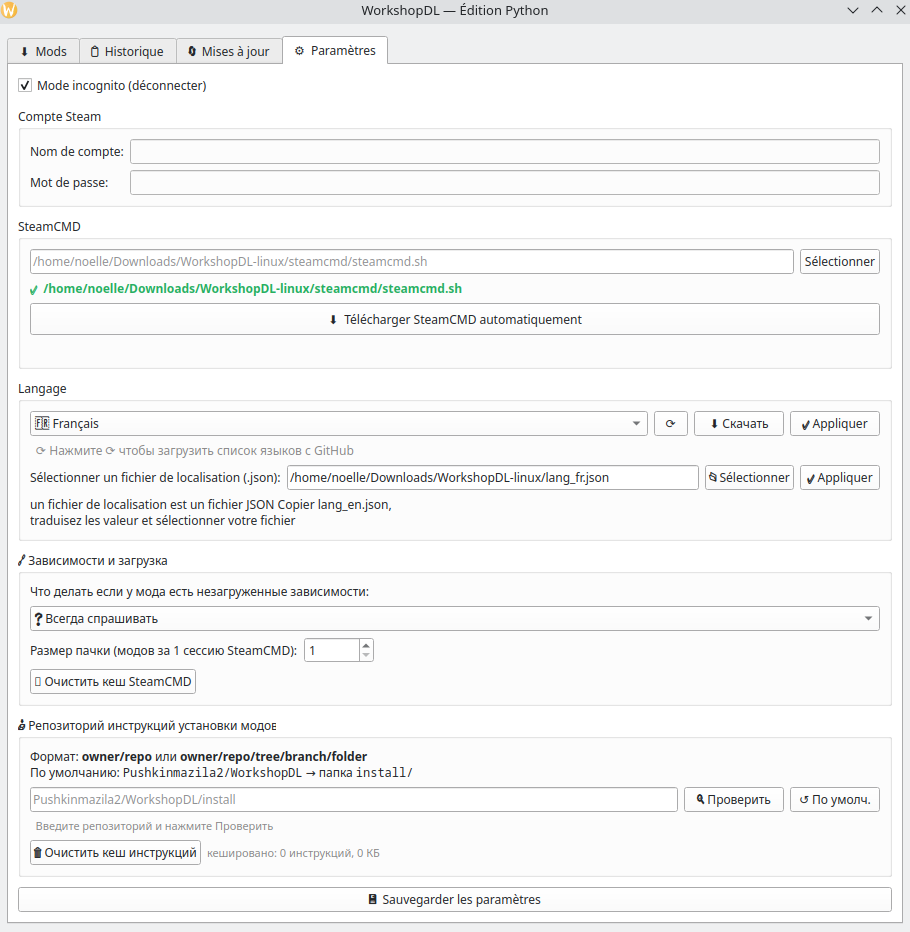
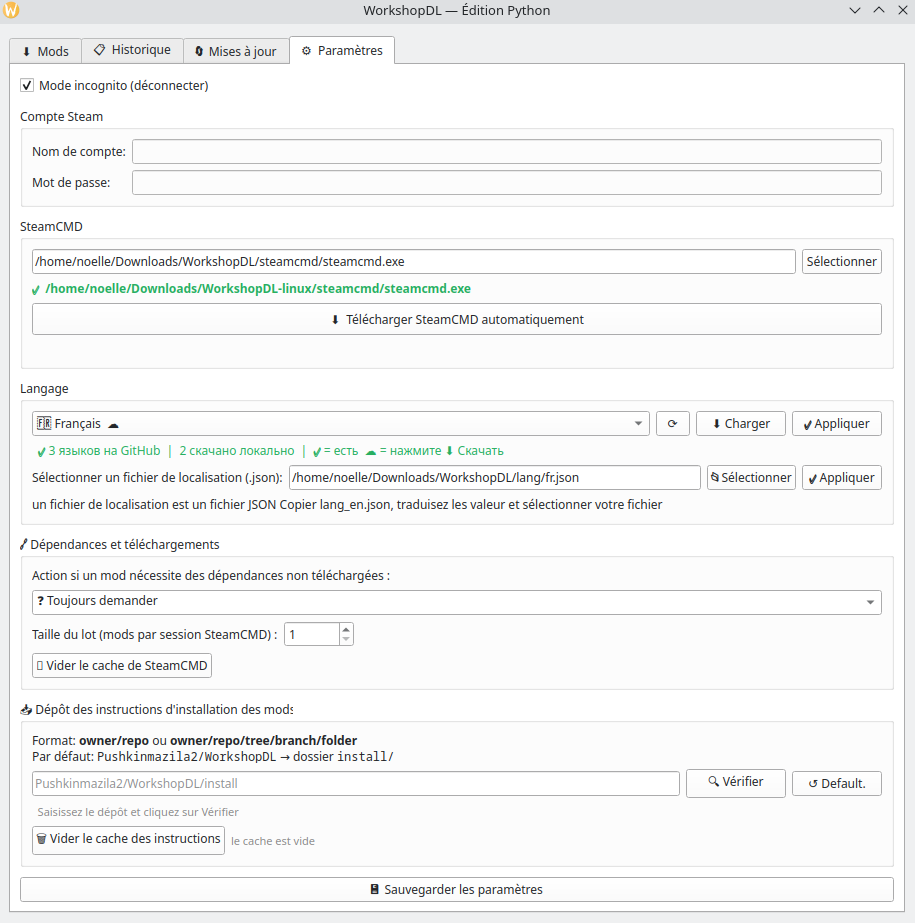
Unfinished Progress

Changed region(s): [[0.0, 0.0, 1.0, 1.0], [0.4923, 0.0, 0.6154, 0.0303], [0.9846, 0.0, 1.0, 0.0303]]

diff --git a/workshopdl.py b/workshopdl.py
@@ -3768,8 +3768,8 @@ class MainWindow(QMainWindow):
         self.cmb_update_paths.setSizePolicy(QSizePolicy.Expanding, QSizePolicy.Fixed)
         self.cmb_update_paths.lineEdit().setPlaceholderText(t("upd_path_placeholder"))
         rp.addWidget(self.cmb_update_paths)
-        for icon, tip, slot in [("📁", "Обзор папки",        self._browse_update_path),
-                                 ("✖",  "Удалить этот путь", self._delete_update_path)]:
+        for icon, tip, slot in [(t("btn_browse"), t("btn_browse_tip"),        self._browse_update_path),
+                                 (t("btn_delete_path"),  t("btn_delete_path_tip"), self._delete_update_path)]:
             b = QPushButton(icon); b.setFixedWidth(34); b.setToolTip(tip)
             b.clicked.connect(slot); rp.addWidget(b)
         gp.addLayout(rp); lay.addWidget(grp_path)
@@ -3920,14 +3920,14 @@ class MainWindow(QMainWindow):
         row_cmb = QHBoxLayout()
         self.cmb_lang = QComboBox()
         self.cmb_lang.setSizePolicy(QSizePolicy.Expanding, QSizePolicy.Fixed)
-        self.cmb_lang.setToolTip("Языки с GitHub — нажми ⟳ чтобы обновить список")
+        self.cmb_lang.setToolTip(t("settings_language_set_tip"))
         row_cmb.addWidget(self.cmb_lang)
-        self.btn_lang_refresh = QPushButton("⟳")
+        self.btn_lang_refresh = QPushButton(t("settings_language_refresh"))
         self.btn_lang_refresh.setFixedWidth(34)
-        self.btn_lang_refresh.setToolTip("Обновить список языков с GitHub")
+        self.btn_lang_refresh.setToolTip(t("settings_language_refresh_tip"))
         self.btn_lang_refresh.clicked.connect(self._fetch_lang_list)
         row_cmb.addWidget(self.btn_lang_refresh)
-        self.btn_lang_dl = QPushButton("⬇ Скачать")
+        self.btn_lang_dl = QPushButton(t("settings_language_download"))
         self.btn_lang_dl.setFixedWidth(90)
         self.btn_lang_dl.clicked.connect(self._download_selected_lang)
         row_cmb.addWidget(self.btn_lang_dl)
@@ -3938,7 +3938,7 @@ class MainWindow(QMainWindow):
         gl2.addLayout(row_cmb)
 
         # Статус
-        self.lbl_lang_status = QLabel("  ⟳ Нажмите ⟳ чтобы загрузить список языков с GitHub")
+        self.lbl_lang_status = QLabel(t("settings_language_download_label"))
         self.lbl_lang_status.setStyleSheet("color: #888;")
         gl2.addWidget(self.lbl_lang_status)
 
@@ -3963,40 +3963,33 @@ class MainWindow(QMainWindow):
         btn_save.clicked.connect(self._save_settings)
 
         # ── Зависимости и загрузка ────────────────────────────────────────────
-        grp_deps = QGroupBox("🔗 Зависимости и загрузка")
+        grp_deps = QGroupBox(t("settings_dependency_group"))
         gd = QVBoxLayout(grp_deps)
 
         # Поведение зависимостей
-        gd.addWidget(QLabel("Что делать если у мода есть незагруженные зависимости:"))
+        gd.addWidget(QLabel(t("settings_dependency_label")))
         self.cmb_deps_behavior = QComboBox()
-        self.cmb_deps_behavior.addItem("❓ Всегда спрашивать",       userData="ask")
-        self.cmb_deps_behavior.addItem("⬇ Скачивать автоматически",  userData="auto")
-        self.cmb_deps_behavior.addItem("🚫 Всегда пропускать",       userData="skip")
+        self.cmb_deps_behavior.addItem(t("settings_dependency_ask"),       userData="ask")
+        self.cmb_deps_behavior.addItem(t("settings_dependency_auto"),  userData="auto")
+        self.cmb_deps_behavior.addItem(t("settings_dependency_skip"),       userData="skip")
         gd.addWidget(self.cmb_deps_behavior)
 
         # Размер пачки
         row_batch = QHBoxLayout()
-        row_batch.addWidget(QLabel("Размер пачки (модов за 1 сессию SteamCMD):"))
+        row_batch.addWidget(QLabel(t("settings_download_batch_label")))
         self.spn_batch = QSpinBox()
         self.spn_batch.setRange(1, 50)
         self.spn_batch.setValue(1)
         self.spn_batch.setFixedWidth(70)
-        self.spn_batch.setToolTip(
-            "1 = один мод за раз (безопаснее, подробный лог)\n"
-            "5–10 = меньше переподключений, быстрее при большом списке\n"
-            "Не влияет на скорость интернета — только на число сессий SteamCMD"
-        )
+        self.spn_batch.setToolTip(t("settings_download_batch_tip"))
         row_batch.addWidget(self.spn_batch)
         row_batch.addStretch()
         gd.addLayout(row_batch)
 
         # Очистка кеша
         row_cache = QHBoxLayout()
-        self.btn_clear_cache = QPushButton("🧹 Очистить кеш SteamCMD")
-        self.btn_clear_cache.setToolTip(
-            "Удаляет steamcmd/userdata/ и steamcmd/steamapps/\n"
-            "Помогает если моды перестали скачиваться без причины"
-        )
+        self.btn_clear_cache = QPushButton(t("settings_download_cache_clear"))
+        self.btn_clear_cache.setToolTip(t("settings_download_cache_clear_tip"))
         self.btn_clear_cache.clicked.connect(self._clear_steamcmd_cache)
         row_cache.addWidget(self.btn_clear_cache)
         self.lbl_cache_status = QLabel("")
@@ -4007,44 +4000,32 @@ class MainWindow(QMainWindow):
         lay.addWidget(grp_deps)
 
         # ── Репозиторий инструкций установки ─────────────────────────────────
-        grp_inst = QGroupBox("📥 Репозиторий инструкций установки модов")
+        grp_inst = QGroupBox(t("settings_install_group"))
         gi = QVBoxLayout(grp_inst)
-        gi.addWidget(QLabel(
-            "Формат: <b>owner/repo</b> или <b>owner/repo/tree/branch/folder</b><br>"
-            f"По умолчанию: <code>{INSTALL_REPO_DEFAULT}</code> → папка <code>{INSTALL_PATH_DEFAULT}/</code>"
-        ))
+        gi.addWidget(QLabel(t("settings_install_label").format(repo=INSTALL_REPO_DEFAULT, path=INSTALL_PATH_DEFAULT)))
         row_repo = QHBoxLayout()
         self.inp_install_repo = QLineEdit()
         self.inp_install_repo.setPlaceholderText(
             f"{INSTALL_REPO_DEFAULT}/{INSTALL_PATH_DEFAULT}"
         )
-        self.inp_install_repo.setToolTip(
-            "Репозиторий GitHub с JSON-инструкциями установки.\n"
-            "Файлы должны быть: <папка>/<game_id>.json\n"
-            "Примеры:\n"
-            "  Pushkinmazila2/WorkshopDL\n"
-            "  MyOrg/MyRepo/tree/main/game-installers"
-        )
+        self.inp_install_repo.setToolTip(t("settings_install_repo_tip"))
         row_repo.addWidget(self.inp_install_repo)
-        self.btn_repo_test = QPushButton("🔍 Проверить")
+        self.btn_repo_test = QPushButton(t("settings_install_repo_check"))
         self.btn_repo_test.setFixedWidth(100)
         self.btn_repo_test.clicked.connect(self._test_install_repo)
         row_repo.addWidget(self.btn_repo_test)
-        btn_repo_reset = QPushButton("↺ По умолч.")
+        btn_repo_reset = QPushButton(t("settings_install_repo_reset"))
         btn_repo_reset.setFixedWidth(90)
         btn_repo_reset.clicked.connect(lambda: self.inp_install_repo.clear())
         row_repo.addWidget(btn_repo_reset)
         gi.addLayout(row_repo)
-        self.lbl_repo_status = QLabel("  Введите репозиторий и нажмите Проверить")
+        self.lbl_repo_status = QLabel(t("settings_install_repo_label"))
         self.lbl_repo_status.setStyleSheet("color: #888; font-size: 11px;")
         gi.addWidget(self.lbl_repo_status)
 
         row_cache2 = QHBoxLayout()
-        self.btn_clear_install_cache = QPushButton("🗑 Очистить кеш инструкций")
-        self.btn_clear_install_cache.setToolTip(
-            "Удаляет локально кешированные .json инструкции.\n"
-            "При следующей установке они будут заново скачаны с GitHub."
-        )
+        self.btn_clear_install_cache = QPushButton(t("settings_install_cache_clear"))
+        self.btn_clear_install_cache.setToolTip(t("settings_install_cache_clear_tip"))
         self.btn_clear_install_cache.clicked.connect(self._clear_install_cache)
         row_cache2.addWidget(self.btn_clear_install_cache)
         self.lbl_install_cache_info = QLabel("")
@@ -4146,7 +4127,7 @@ class MainWindow(QMainWindow):
         tmp_cfg["WorkshopDL"] = {"InstallRepo": repo_val} if repo_val else {}
         raw_url, api_url = _install_repo_url(tmp_cfg if repo_val else None)
 
-        self.lbl_repo_status.setText("  ⏳ Проверка...")
+        self.lbl_repo_status.setText(t("settings_install_repo_checking"))
         self.lbl_repo_status.setStyleSheet("color: #888;")
         self.btn_repo_test.setEnabled(False)
 
@@ -4158,16 +4139,16 @@ class MainWindow(QMainWindow):
                     files = r.json()
                     json_count = sum(1 for f in files if isinstance(f, dict)
                                      and f.get("name", "").endswith(".json"))
-                    msg = f"  ✅ Репозиторий доступен, найдено {json_count} инструкций"
+                    msg = t("settings_install_repo_available").format(count=json_count)
                     color = "#4CAF50"
                 elif r.status_code == 404:
-                    msg = "  ❌ Репозиторий или папка не найдены (404)"
+                    msg = t("settings_install_repo_not_found")
                     color = "#f44336"
                 else:
-                    msg = f"  ⚠ Ответ сервера: {r.status_code}"
+                    msg = t("settings_install_repo_server_error").format(status=r.status_code)
                     color = "#FF9800"
             except Exception as e:
-                msg   = f"  ❌ Ошибка подключения: {e}"
+                msg   = t("settings_install_repo_connection_error").format(error=str(e))
                 color = "#f44336"
 
             from PyQt5.QtCore import QMetaObject, Q_ARG
@@ -4186,7 +4167,7 @@ class MainWindow(QMainWindow):
     def _refresh_install_cache_info(self):
         """Обновляет метку с информацией о кеше инструкций."""
         if not os.path.isdir(INSTALL_LOCAL_DIR):
-            self.lbl_install_cache_info.setText("кеш пуст")
+            self.lbl_install_cache_info.setText(t("settings_install_cache_empty"))
             return
         files = [f for f in os.listdir(INSTALL_LOCAL_DIR) if f.endswith(".json")]
         total_kb = sum(
@@ -4194,10 +4175,10 @@ class MainWindow(QMainWindow):
             for f in files
         ) // 1024
         self.lbl_install_cache_info.setText(
-            f"кешировано: {len(files)} инструкций, {total_kb} КБ"
+            t("settings_install_cache_info").format(files_count=len(files), size_kb=total_kb)
         )
 
-    def _clear_install_cache(self):
+def _clear_install_cache(self):
         """Удаляет кешированные JSON инструкции (не папку plugins/)."""
         if not os.path.isdir(INSTALL_LOCAL_DIR):
             return
@@ -4209,10 +4190,12 @@ class MainWindow(QMainWindow):
                     removed += 1
                 except Exception:
                     pass
-        self.lbl_install_cache_info.setText(f"удалено {removed} файлов")
-        QMessageBox.information(self, "WorkshopDL",
-            f"Кеш инструкций очищен: удалено {removed} файлов.\n"
-            "При следующей установке инструкции будут заново скачаны с GitHub.")
+        self.lbl_install_cache_info.setText(t("settings_install_cache_removed_files").format(count=removed))
+        QMessageBox.information(
+            self,
+            "WorkshopDL",
+            t("settings_install_cache_cleared").format(count=removed)
+        )
 
 
 
@@ -4269,7 +4252,7 @@ class MainWindow(QMainWindow):
     def _fetch_lang_list(self):
         """Запрашивает список языков с GitHub."""
         self.btn_lang_refresh.setEnabled(False)
-        self.lbl_lang_status.setText("  ⟳ Загружаю список с GitHub...")
+        self.lbl_lang_status.setText(t("settings_language_downloading"))
         self.lbl_lang_status.setStyleSheet("color: #888;")
         self._lang_fetch_worker = LangFetchWorker()
         self._lang_fetch_worker.list_ready.connect(self._on_lang_list_ready)